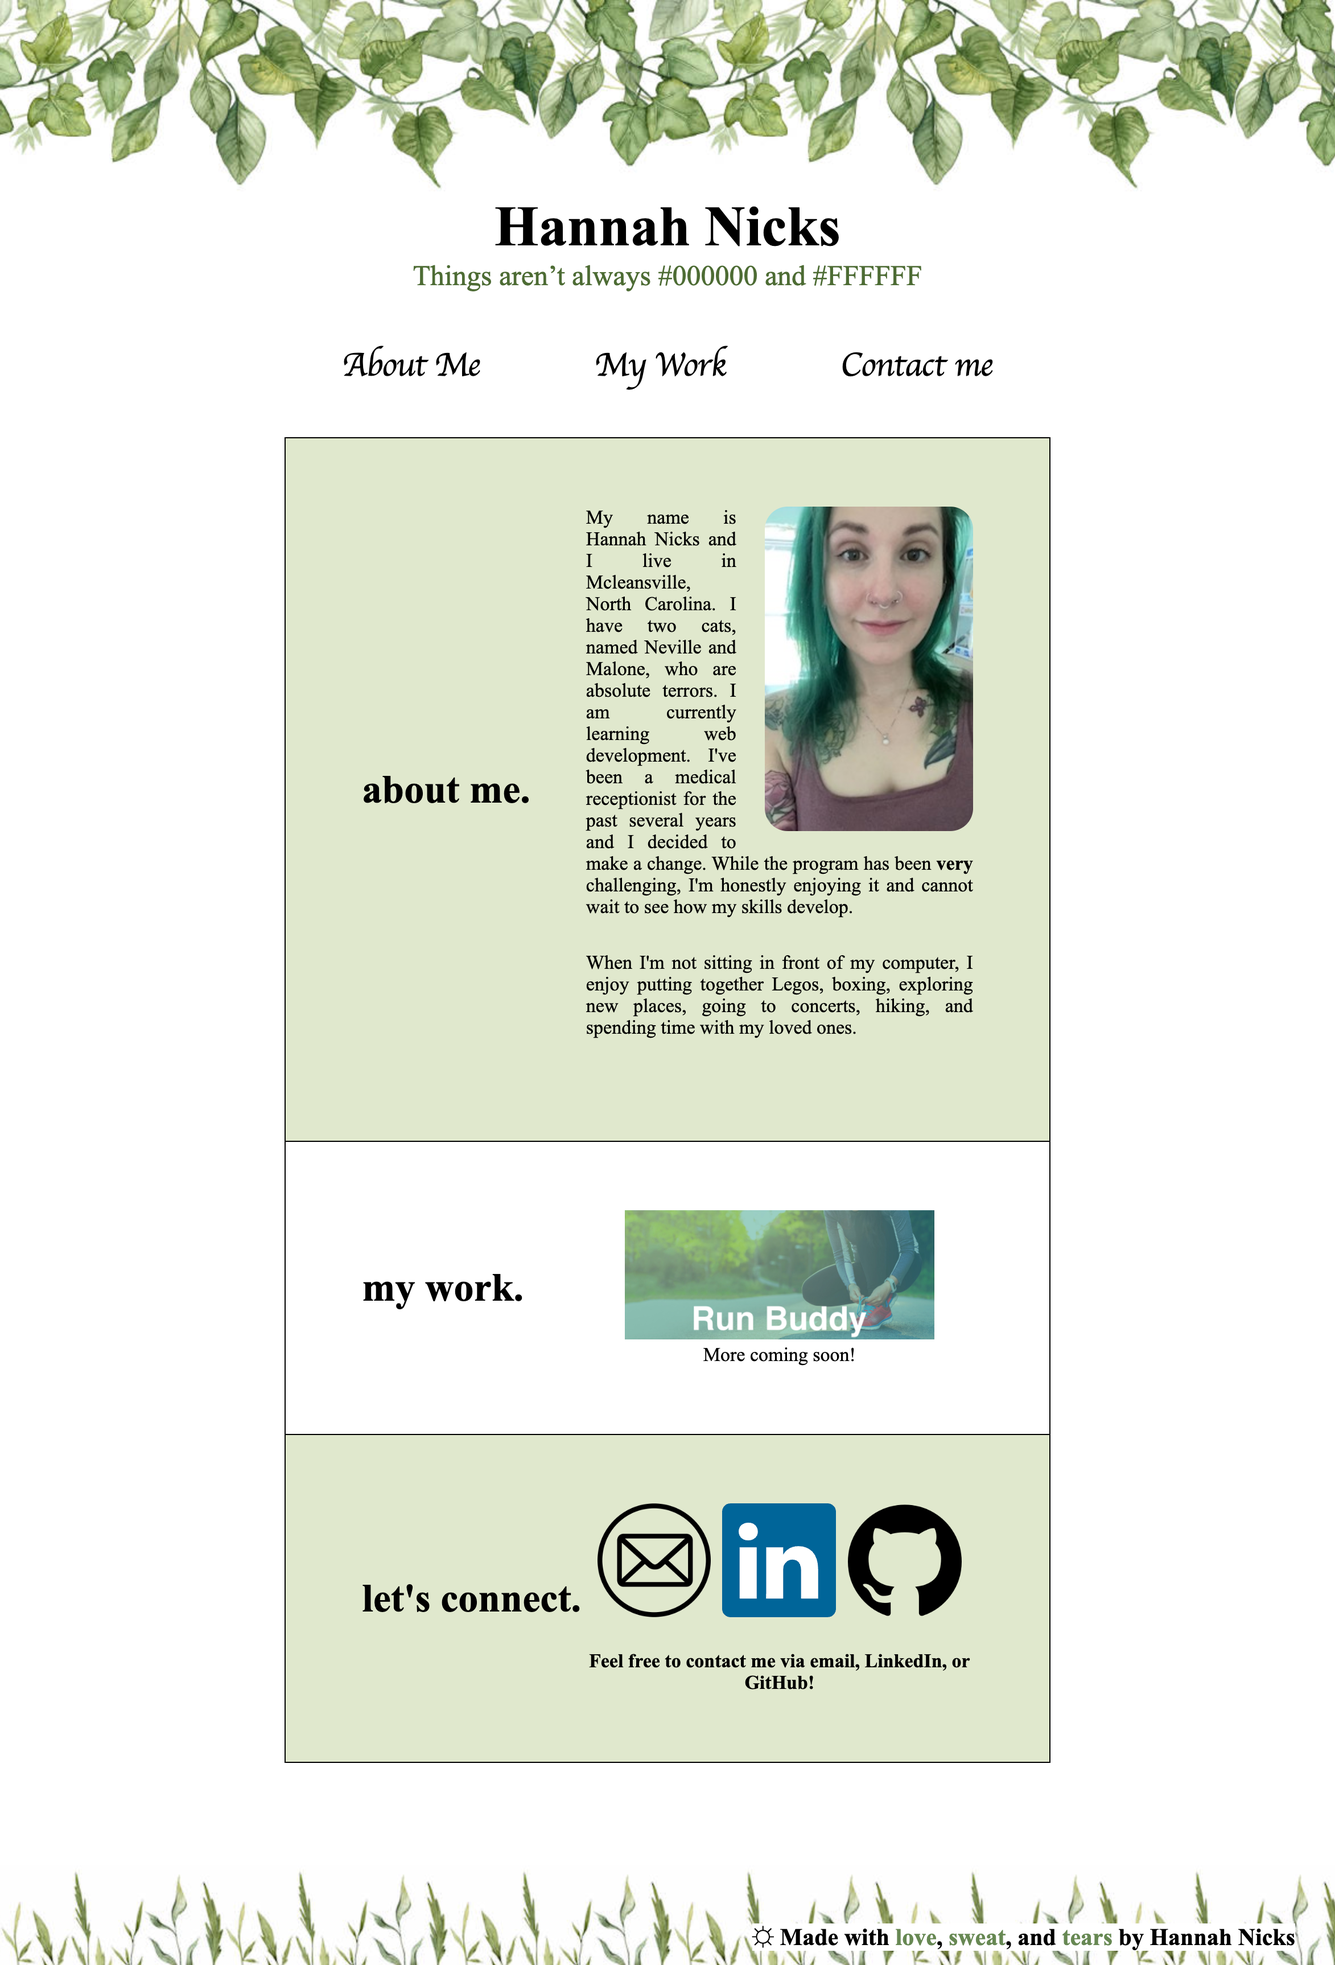
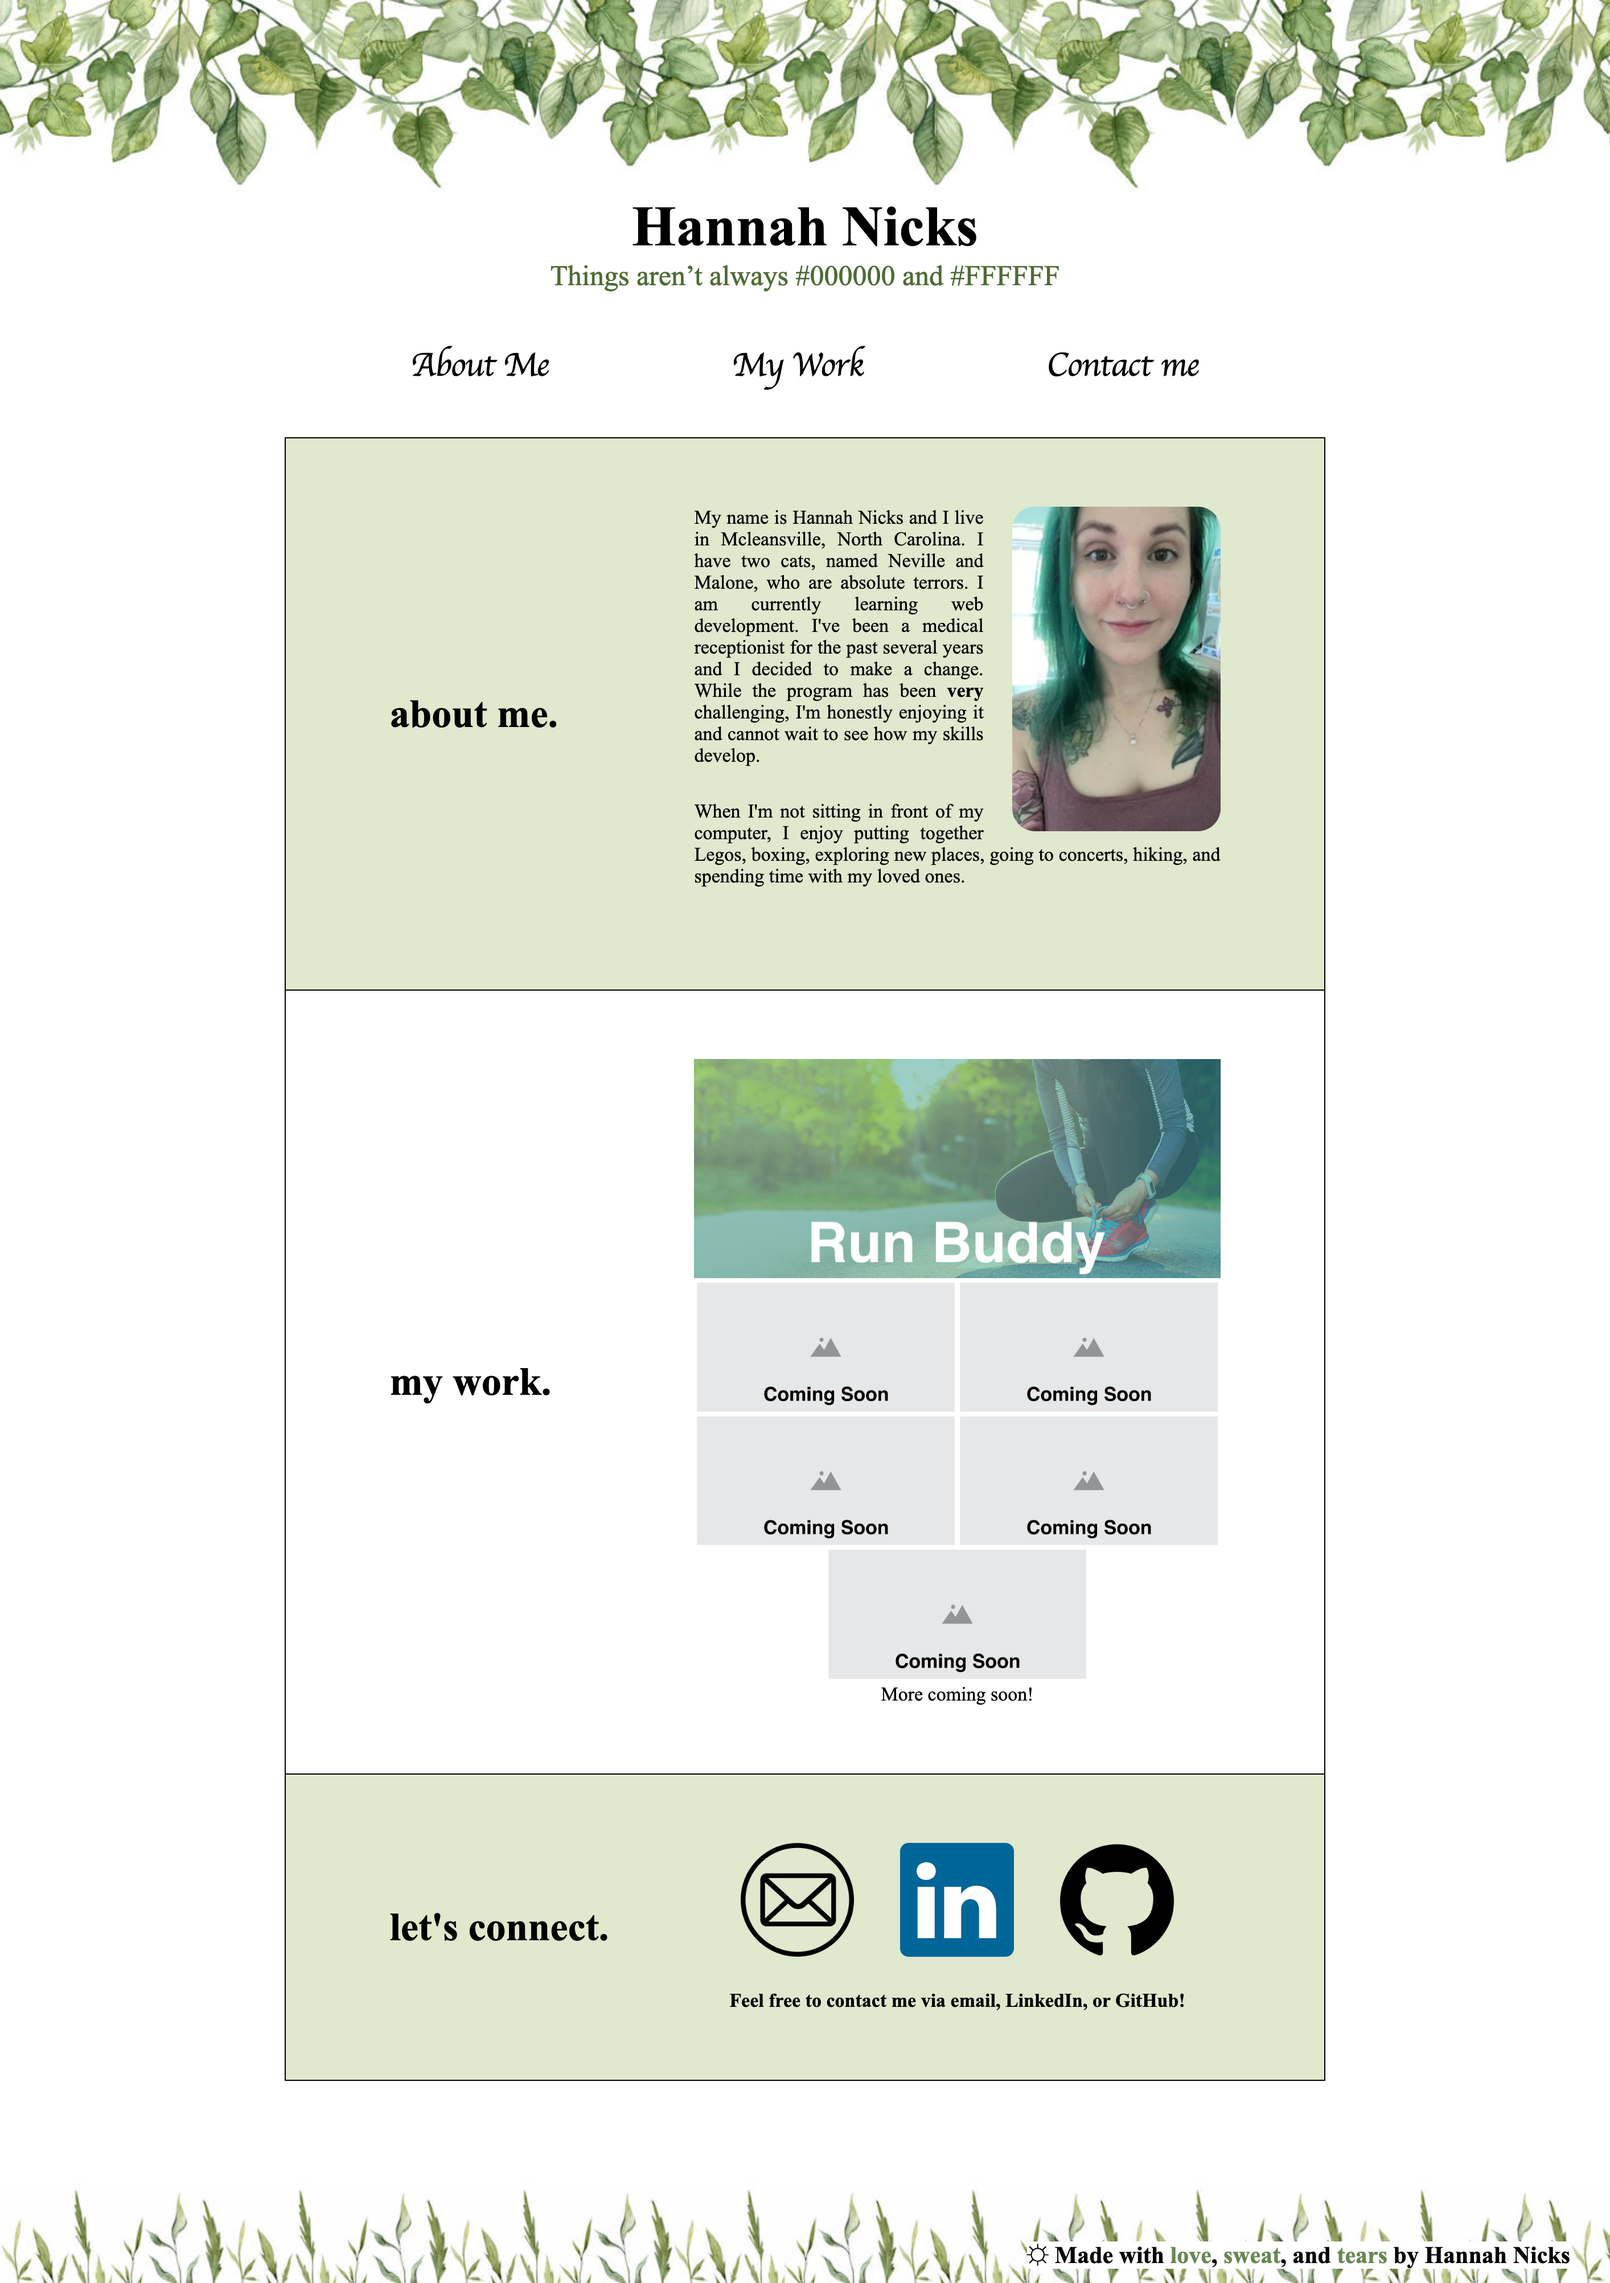
add placeholders

diff --git a/index.html b/index.html
@@ -46,6 +46,11 @@
                         <a href="https://hlnicks.github.io/run-buddy/" target="_blank"><img src="./assets/images/run-buddy.jpg" alt="run buddy"></a>
                     </div>
                     <div class="other-projects">
+                        <img src="./assets/images/placeholder.png">
+                        <img src="./assets/images/placeholder.png">
+                        <img src="./assets/images/placeholder.png">
+                        <img src="./assets/images/placeholder.png">
+                        <img src="./assets/images/placeholder.png">
                         <p>More coming soon!</p>
                         <!-- preview: change height to 400px, keep proportions and use 90pt font  -->
                     </div>

diff --git a/assets/css/style.css b/assets/css/style.css
@@ -117,12 +117,14 @@ section {
 
 
 /* My Work Section*/
+
+
 .newest-project img {
-  max-width: 80%;
+  max-width: 100%;
 }
 
 .other-projects img {
-  max-width: 39.6%;
+  max-width: 49%;
 }
 
 
